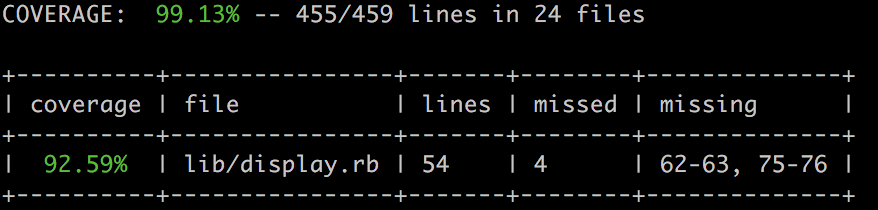
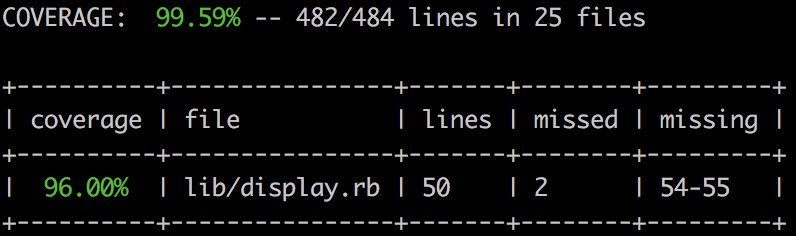
Test & add: BoardPresenter

diff --git a/spec/player_factory_spec.rb b/spec/player_factory_spec.rb
@@ -4,34 +4,29 @@ describe PlayerFactory do
 
   FIRST_ELEMENT = 0
   SECOND_ELEMENT = 1
+  COMPUTER_VS_COMPUTER = 2
+  HUMAN_VS_COMPUTER = 3
 
   before :each do
     validator = Validator.new
-    input = StringIO.new("O\nX")
+    input = StringIO.new("O\nxx\nX")
     output = StringIO.new
     console = Console.new(output, input)
     display = Display.new(console, validator)
     @player_factory = PlayerFactory.new(display)
   end
 
-  it "returns 2 human players" do
-    choice = 1
-    players = @player_factory.set_up_players(choice)
-    expect(players[FIRST_ELEMENT]).to be_a(HumanPlayer)
-    expect(players[SECOND_ELEMENT]).to be_a(HumanPlayer)
-  end
-
-  it "returns 2 computer players" do
-    choice = 2
-    players = @player_factory.set_up_players(choice)
-    expect(players[FIRST_ELEMENT]).to be_a(HardComputerPlayer)
-    expect(players[SECOND_ELEMENT]).to be_a(HardComputerPlayer)
-  end
-
   it "returns a human player and a computer player" do
-    choice = 3
+    choice = HUMAN_VS_COMPUTER
     players = @player_factory.set_up_players(choice)
     expect(players[FIRST_ELEMENT]).to be_a(HumanPlayer)
     expect(players[SECOND_ELEMENT]).to be_a(HardComputerPlayer)
+  end
+
+  it "sets second player mark as 'X' given invalid marks" do
+    choice = COMPUTER_VS_COMPUTER
+    players = @player_factory.set_up_players(choice)
+    second_player = players[SECOND_ELEMENT]
+    expect(second_player.mark).to eql("X")
   end
 end

diff --git a/spec/integration/game_spec.rb b/spec/integration/game_spec.rb
@@ -17,7 +17,8 @@ describe Game do
       human_player_one = HumanPlayer.new(display, "X")
       human_player_two = HumanPlayer.new(display, "O")
       players = [human_player_one, human_player_two]
-      game = Game.new(board, display, players)
+      board_presenter = BoardPresenter.new(console)
+      game = Game.new(board, display, players, board_presenter)
       game.start_game
     end
 
@@ -40,7 +41,8 @@ describe Game do
       hard_computer_player_one = HardComputerPlayer.new(display, "X")
       hard_computer_player_two = HardComputerPlayer.new(display, "O")
       players = [hard_computer_player_one, hard_computer_player_two]
-      game = Game.new(board, display, players)
+      board_presenter = BoardPresenter.new(console)
+      game = Game.new(board, display, players, board_presenter)
       game.start_game
       expect(output.string).to include("draw")
     end

diff --git a/spec/board_presenter_spec.rb b/spec/board_presenter_spec.rb
@@ -1,15 +1,13 @@
-require "display"
-require "message"
+require "board_presenter"
 
-describe Display do
+describe BoardPresenter do
   it "presents board" do
     output = StringIO.new
     console = Console.new(output)
     grid = [0, 1, 2, 3, 4, 5, 6, 7, 8]
-    validator = Validator.new
-    display = Display.new(console, validator)
     board = Board.new(grid)
-    display.present_board(board)
+    board_presenter = BoardPresenter.new(console)
+    board_presenter.present_board(board)
     expect(output.string).to eql(" 0 | 1 | 2 \n===+===+===\n 3 | 4 | 5 \n===+===+===\n 6 | 7 | 8 \n")
   end
 end

diff --git a/lib/display.rb b/lib/display.rb
@@ -6,23 +6,6 @@ class Display
     @validator = validator
   end
 
-  def present_board(board)
-    presentable_board = ""
-    board.grid.each_with_index { |cell, index|
-    if (index + 1) == board.max_number_of_cells
-      presentable_board << " #{cell} \n"
-    elsif (index + 1) % board.size == 0
-      presentable_board << " #{cell} #{insert_line}"
-    else
-      presentable_board << " #{cell} |"
-    end }
-    @console.present(presentable_board)
-  end
-
-  def insert_line
-    "\n===+===+===\n"
-  end
-
   def welcome
     @console.present(@message.welcome)
   end

diff --git a/lib/board_presenter.rb b/lib/board_presenter.rb
@@ -1,0 +1,23 @@
+class BoardPresenter
+
+  def initialize(console = Console.new)
+    @console = console
+  end
+
+  def present_board(board)
+    presentable_board = ""
+    board.grid.each_with_index { |cell, index|
+    if (index + 1) == board.max_number_of_cells
+      presentable_board << " #{cell} \n"
+    elsif (index + 1) % board.size == 0
+      presentable_board << " #{cell} #{insert_line}"
+    else
+      presentable_board << " #{cell} |"
+    end }
+    @console.present(presentable_board)
+  end
+
+  def insert_line
+    "\n===+===+===\n"
+  end
+end

diff --git a/lib/game_factory.rb b/lib/game_factory.rb
@@ -13,8 +13,11 @@ class GameFactory
   def create_game
     players = set_players
     board = Board.new([0, 1, 2, 3, 4, 5, 6, 7, 8])
-    Game.new(board, @display, players)
+    board_presenter = BoardPresenter.new
+    Game.new(board, @display, players, board_presenter)
   end
+
+  private
 
   def set_players
     players = get_players
@@ -25,8 +28,6 @@ class GameFactory
     end
     players
   end
-
-  private
 
   def get_players
     game_mode_choice = @game_mode.choose_game_mode(@display)

diff --git a/lib/game.rb b/lib/game.rb
@@ -3,10 +3,11 @@ class Game
   FIRST_ELEMENT = 0
   SECOND_ELEMENT = 1
 
-  def initialize(board, display, players)
+  def initialize(board, display, players, board_presenter)
     @board = board
     @display = display
     @players = players
+    @board_presenter = board_presenter
   end
 
   def start_game
@@ -19,7 +20,7 @@ class Game
   private
 
   def display_board
-    @display.present_board(@board)
+    @board_presenter.present_board(@board)
   end
 
   def player_turns

diff --git a/spec/integration/game_factory_spec.rb b/spec/integration/game_factory_spec.rb
@@ -2,8 +2,6 @@ require "game_factory"
 
 describe GameFactory do
 
-  FIRST_ELEMENT = 0
-
   context "creates a Game" do
     before :each do
       output = StringIO.new
@@ -18,11 +16,6 @@ describe GameFactory do
 
     it "returns a Game" do
       expect(@game_factory.create_game).to be_a(Game)
-    end
-
-    it "sets first player mark as 'X'" do
-      first_player = @game_factory.set_players[FIRST_ELEMENT]
-      expect(first_player.mark).to eql("X")
     end
   end
 end

diff --git a/lib/player_factory.rb b/lib/player_factory.rb
@@ -27,6 +27,8 @@ class PlayerFactory
     HardComputerPlayer.new(@display, choose_mark("Computer Player"))
   end
 
+  private
+
   def choose_mark(player_type)
     @display.choose_mark_prompt(player_type)
     @display.get_mark(player_type)

diff --git a/lib/run.rb b/lib/run.rb
@@ -11,6 +11,7 @@ require_relative "negamax"
 require_relative "game_factory"
 require_relative "player_factory"
 require_relative "game_mode"
+require_relative "board_presenter"
 
 
 validator = Validator.new

diff --git a/spec/hard_computer_player_spec.rb b/spec/hard_computer_player_spec.rb
@@ -1,7 +1,6 @@
 require "player"
 require "hard_computer_player"
 
-
 describe HardComputerPlayer do
   it "returns name" do
     hard_computer_player = HardComputerPlayer.new("", "")
